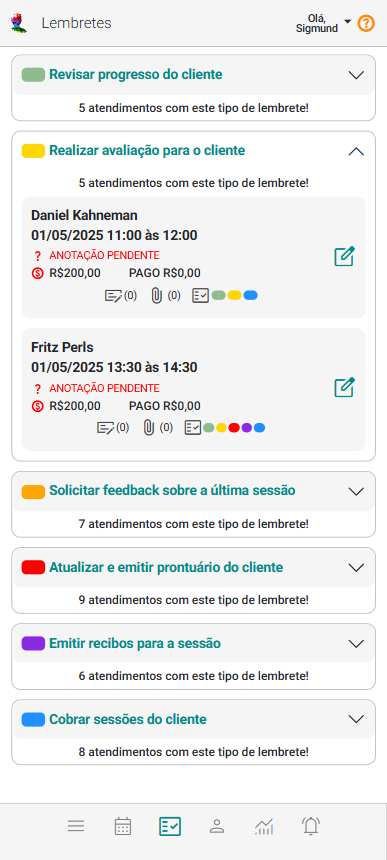
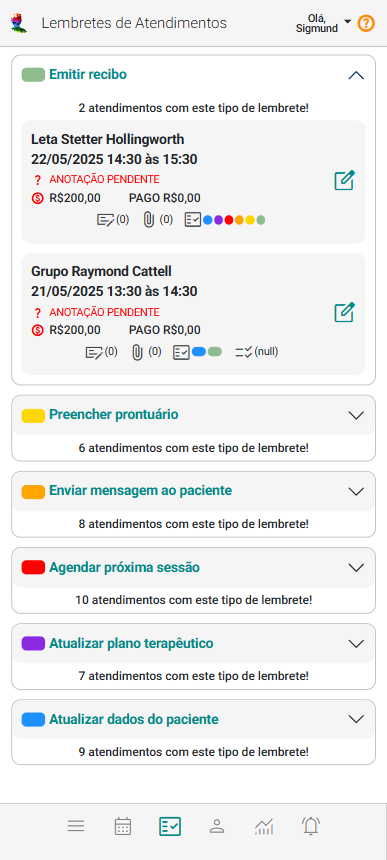
nilson

diff --git a/docs/03-funcionalidades/05-lembretes/00-visao.md b/docs/03-funcionalidades/05-lembretes/00-visao.md
@@ -2,29 +2,31 @@
 sidebar_position: 0
 ---
 
-# Sobre Lembretes
+# Sobre Lembretes de Atendimentos
 
-O painel Lembretes no eConsult é uma ferramenta que auxilia na gestão e acompanhamento dos atendimentos. Ele centraliza todos os atendimentos que possuem lembretes vinculados, organizando-os de maneira lógica e intuitiva em *cards* individuais que são agrupados por tipo de lembrete. Essa estrutura permite uma visualização clara e eficiente, facilitando o acesso às informações mais relevantes de cada atendimento.
+O painel "Lembretes de Atendimentos" do eConsult é uma ferramenta que apoia a gestão e o acompanhamento dos atendimentos de forma prática e organizada.
 
-## Agrupamento por Lembrete
-
-O agrupamento dos *cards* por lembretes é uma característica chave que melhora significativamente a organização e o fluxo de trabalho. Ao agrupar atendimentos por lembretes, o painel oferece uma visão concentrada e focada em tarefas específicas ou em séries de atendimentos que compartilham características similares.
+Ele centraliza os atendimentos que compartilham o mesmo tipo de lembrete, agrupando-os de maneira lógica e intuitiva em cards individuais. Essa estrutura facilita a visualização e o acesso rápido às informações mais relevantes de cada atendimento, otimizando o fluxo de trabalho do profissional.
 
 ![Painel Lembretes](../../../static/img/prints/lembretes/001.png)
 
-O painel Lembretes do eConsult organiza os atendimentos de forma inteligente, agrupando-os por lembretes indicados ao longo do uso do sistema. Isso significa que todos os atendimentos que compartilham um lembrete em comum são reunidos em um mesmo grupo. Essa abordagem facilita o gerenciamento e a organização dos compromissos, permitindo que o profissional visualize e acompanhe de maneira eficiente todos os atendimentos vinculados a um mesmo propósito.
+O agrupamento dos *cards* por lembretes é uma característica essencial que melhora significativamente a organização e o fluxo de trabalho. Ao concentrar os atendimentos por lembrete, o painel proporciona uma visão clara e focada em tarefas específicas ou em séries de atendimentos com características semelhantes.
 
-Imagine que você tem dois atendimentos agendados para diferentes clientes, mas ambos estão vinculados a um lembrete específico, como "Solicitar feedback sobre a última sessão com o cliente". Nesse caso, esses atendimentos seriam agrupados em um único grupo de lembretes, já que compartilham do mesmo propósito.
+Essa abordagem facilita o gerenciamento dos compromissos, permitindo que o profissional visualize, acompanhe e aja com mais eficiência em relação aos atendimentos que exigem atenção especial.
+
+### Exemplo prático
+
+Imagine que você tenha dois atendimentos agendados para clientes diferentes, mas ambos estejam associados a um mesmo tipo de lembrete, como:
+
+**"Emitir recibo"**  
+
+Nesse caso, esses atendimentos serão exibidos dentro do mesmo grupo no painel de lembretes de atendimento, já que compartilham o mesmo foco de ação. Isso ajuda a manter o acompanhamento organizado e centrado em objetivos claros.
 
 ![Painel Lembretes](../../../static/img/prints/lembretes/002.png)
 
-- **Título do agrupamento:** Mostra o nome do Lembrete e quantidade de atendimentos com este tipo de lembrete vinculado.
-
-    ![Painel Lembretes](../../../static/img/prints/lembretes/003.png)
-
 ## *Cards* de Atendimento
 
-Os *cards* de atendimento no painel Lembretes oferece uma visão abrangente das informações essenciais de cada atendimento, tornando o acompanhamento simples e eficaz.
+Os *cards* de atendimento no painel Lembretes de Atendimentos oferece uma visão abrangente das informações essenciais de cada atendimento, tornando o acompanhamento simples e eficaz.
 
 ![Painel Lembretes](../../../static/img/prints/lembretes/004.png)
 
@@ -68,4 +70,4 @@ Os *cards* de atendimento no painel Lembretes oferece uma visão abrangente das 
 
     :::
 
-Esses elementos visuais, informativos e interativos tornam a gestão dos atendimentos mais eficiente, reunindo todos os detalhes importantes em um único lugar, de forma organizada e acessível. Isso melhora a experiência tanto dos profissionais quanto dos clientes, garantindo que nenhuma informação seja esquecida ou negligenciada.
+Esses elementos visuais, informativos e interativos tornam a gestão dos atendimentos mais eficiente, reunindo todos os detalhes importantes em um único lugar, de forma organizada e acessível. Isso melhora a experiência tanto dos profissionais quanto dos clientes, diminuindo as chances de que informações importantes sejam esquecidas ou negligenciadas.

diff --git a/docs/03-funcionalidades/04-atendimentos/10-presenca-pagamentos.md b/docs/03-funcionalidades/04-atendimentos/10-presenca-pagamentos.md
@@ -8,7 +8,7 @@ O eConsult disponibiliza uma ferramenta prática e eficiente para o **registro d
 
 Com essa funcionalidade, é possível acompanhar, de forma centralizada, o **engajamento individual dos membros do grupo**, identificando com facilidade quem compareceu, quem se ausentou e quais pagamentos foram realizados. Isso não apenas **otimiza a gestão administrativa**, mas também contribui para um melhor planejamento terapêutico e financeiro, tanto para os profissionais quanto para as instituições que conduzem os atendimentos em grupo.
 
-O recurso permite ainda **visualizações rápidas e relatórios precisos**, que auxiliam na tomada de decisões, no acompanhamento da evolução dos participantes e no cumprimento das metas estabelecidas. A transparência no registro dessas informações fortalece a relação com os clientes, ao mesmo tempo em que assegura maior controle e segurança nos processos internos.
+O recurso permite ainda **visualizações rápidas e precisas**, que auxiliam na tomada de decisões, no acompanhamento da evolução dos participantes e no cumprimento das metas estabelecidas. A transparência no registro dessas informações fortalece a relação com os clientes, ao mesmo tempo em que assegura maior controle e segurança nos processos internos.
 
 Em suma, essa ferramenta do eConsult é um diferencial importante para quem trabalha com **atendimentos coletivos**, oferecendo **mais organização, agilidade e confiabilidade** na gestão de grupos.
 
@@ -60,6 +60,43 @@ Em suma, essa ferramenta do eConsult é um diferencial importante para quem trab
 
     ![Atendimento](../../../static/img/prints/atendimento/081.png)
 
+## Registrar recebimento de alguém de fora do grupo de atendimento
+
+**Imagine o seguinte cenário:** um instituto contrata seus serviços para oferecer terapia em grupo. Nesse caso, quem arca com o pagamento não são os participantes, mas sim o próprio instituto. Como proceder diante dessa situação?
+
+1. Acione a opção ![Atendimento](../../../static/img/prints/atendimento/071.png) no *card* do atendimento desejado.
+
+    ![Atendimento](../../../static/img/prints/atendimento/070.png)
+
+1. O sistema abre a tela "Informe de Presença e Pagamentos".
+
+    ![Atendimento](../../../static/img/prints/atendimento/072.png)
+
+1. Acione a opção "Ver Recebimentos" ![Atendimento](../../../static/img/prints/atendimento/073.png).
+
+1. O sistema abre a tela de pagamentos.
+
+1. Preencha o campo "Pagador" com o nome do instituto ou da pessoa física ou jurídica que pagou pelo serviço.
+
+    ![Atendimento](../../../static/img/prints/atendimento/082.png)
+
+1. Preencha os campos "Valor", "Data" e "Foma de Pagamento".    
+
+    ![Atendimento](../../../static/img/prints/atendimento/083.png)
+
+1. Acione a opção "Incluir" ![Atendimento](../../../static/img/prints/buttons/btn_incluir.png).
+
+1. O sistema atualiza a tela de pagamento com o registro de recebimento feito.
+
+    ![Atendimento](../../../static/img/prints/atendimento/084.png)
+
+1. Feche a tela e, você notará que na tela "Informe de Presença e Pagamentos" a informação de pagamento contará em "Outros pagadores".
+
+    ![Atendimento](../../../static/img/prints/atendimento/085.png)
+
+1. Feche a tela.
+
+1. Repare que o *card* de atendimento passa a mostrar o valor "Pago".
 
 ## Registrar presença/ausência dos membros do grupo de atendimento
 

diff --git a/docs/03-funcionalidades/04-atendimentos/07-chatgpt.md b/docs/03-funcionalidades/04-atendimentos/07-chatgpt.md
@@ -61,6 +61,10 @@ Cada usuário do **eConsult** tem acesso a **192.000 tokens por mês** para util
 
 Esse limite é **renovado automaticamente no primeiro dia de cada mês** e corresponde a uma quantidade generosa de uso, suficiente para os atendimentos e tarefas do dia a dia.
 
+Cada usuário do **eConsult** conta com uma cota mensal de **192.000 tokens** para utilizar os recursos de inteligência artificial integrados à plataforma.
+
+Esse limite é renovado automaticamente no primeiro dia de cada mês e oferece uma quantidade ampla o suficiente para cobrir, com folga, os atendimentos e tarefas do dia a dia.
+
 :::warning **Importante:**  
 - Esse limite existe apenas como medida de proteção contra abusos e uso excessivo fora do propósito da ferramenta. Ele garante que todos os usuários tenham uma experiência estável, rápida e segura no uso da IA.
 
